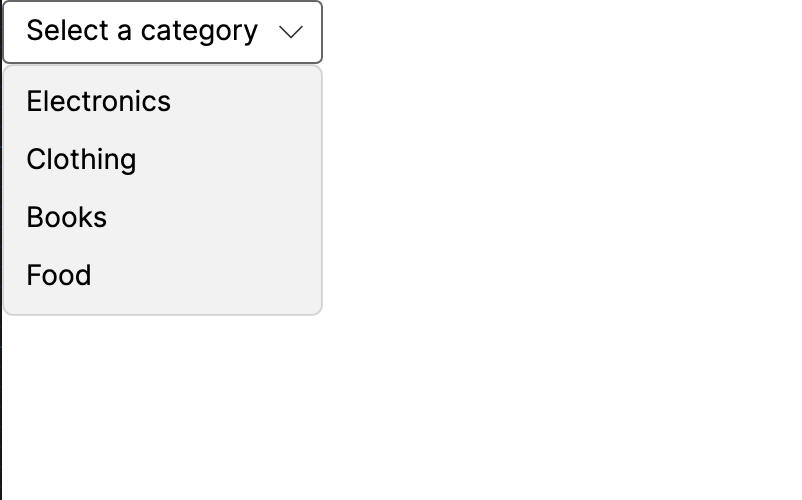
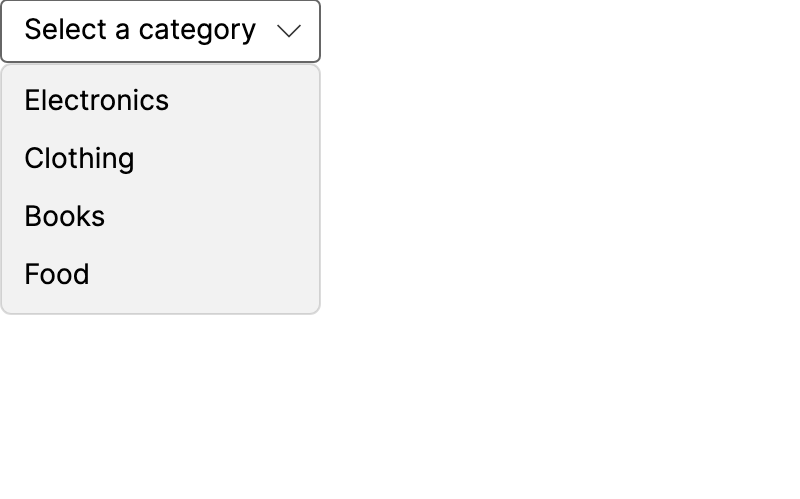
Correct data template sample

Changed region(s): [[0.0, 0.0, 0.4062, 0.6313]]

diff --git a/controls/input/selectors/combobox.md b/controls/input/selectors/combobox.md
@@ -106,23 +106,31 @@ This combo box has a dropdown list that displays text overlaid on colored discs.
 
 This example binds the items in the combo box using a data template. The C# code-behind loads the installed font family names and binds them to the `ItemsSource` property.
 
+<Tabs>
+
+<TabItem value="xml" label="MainWindow.axaml">
+
 ```xml
 <StackPanel Margin="20">
-  <ComboBox x:Name="fontComboBox" SelectedIndex="0"
-            Width="200" MaxDropDownHeight="300"
-            ItemsSource="{Binding FontFamilies}"
-            SelectedValue="{Binding SelectedFont}">
-    <ComboBox.ItemTemplate>
-      <DataTemplate>
-        <TextBlock Text="{Binding Name}" FontFamily="{Binding}" />
-      </DataTemplate>
-    </ComboBox.ItemTemplate>
-  </ComboBox>
+    <ComboBox x:Name="fontComboBox"
+              SelectedIndex="0"
+              Width="200" MaxDropDownHeight="300"
+              ItemsSource="{Binding FontFamilies}"
+              SelectedValue="{Binding SelectedFont}">
+        <ComboBox.ItemTemplate>
+            <DataTemplate x:DataType="FontFamily">
+                <TextBlock Text="{Binding Name}" FontFamily="{Binding}" />
+            </DataTemplate>
+        </ComboBox.ItemTemplate>
+    </ComboBox>
 </StackPanel>
 ```
 
-```csharp title='C#'
-using Avalonia.Controls;
+</TabItem>
+
+<TabItem value="c#" label="MainWindowViewModel.cs">
+
+```csharp
 using Avalonia.Media;
 using Avalonia.Media.Fonts;
 using System.Collections.Generic;
@@ -130,27 +138,33 @@ using System.Linq;
 
 namespace TmpAvaloniaApp;
 
-public partial class MainWindow : Window
+public partial class MainWindowViewModel : ViewModelBase
 {
-    public MainWindow()
+    public MainWindowViewModel()
     {
-        InitializeComponent();
         IFontCollection fontCollection = FontManager.Current.SystemFonts;
         FontFamilies = new List<FontFamily>(fontCollection).OrderBy(x=>x.Name).ToList();
-        DataContext = this;
     }
-
+    
     public FontFamily? SelectedFont { get; set; }
 
     public List<FontFamily> FontFamilies { get; set; }
 }
 ```
 
-<Image light={ComboBoxDataTemplateScreenshot} alt="ComboBox with data template showing font families" position="center" maxWidth={400} cornerRadius="true"/>
+</TabItem>
 
-## Binding to a view model
+<TabItem value="image" label="Preview">
 
-Bind `ItemsSource`, `SelectedItem`, and use an `ItemTemplate`:
+<Image light={ComboBoxDataTemplateScreenshot} alt="ComboBox with data template showing font families." position="center" maxWidth={400} cornerRadius="true"/>
+
+</TabItem>
+
+</Tabs>
+
+### Binding to a view model
+
+Bind `ItemsSource`, `SelectedItem`, and use an `ItemTemplate`.
 
 <Tabs>
 
@@ -184,11 +198,17 @@ public partial class MainWindowViewModel : ViewModelBase
 
 </TabItem>
 
+<TabItem value="image" label="Preview">
+
+<Image light={ComboBoxBindingToViewModel} alt="Open ComboBox showing a list of four items defined in the view model." position="center" maxWidth={400} cornerRadius="true"/>
+
+</TabItem>
+
 </Tabs>
 
-## Editable ComboBox
+## Editable combo box
 
-Set `IsEditable` to `true` to allow you to type text directly into the combo box. As you type, the control searches the items for a match and updates `SelectedItem` accordingly. The `Text` property holds the current text value.
+Set `IsEditable` to `true` to allow text to be typed in the combo box. As you type, the control searches the items for a match and updates `SelectedItem` accordingly. The `Text` property holds the current text value.
 
 ```xml
 <ComboBox IsEditable="True"
@@ -198,9 +218,9 @@ Set `IsEditable` to `true` to allow you to type text directly into the combo box
           PlaceholderText="Type a country..." />
 ```
 
-### `TextSearch.TextBinding`
+### Searching for complex data objects
 
-When items are complex objects, use `TextSearch.TextBinding` to specify which property the editable text should match against:
+When items are complex objects, use `TextSearch.TextBinding` to specify which property the editable text should match against.
 
 ```xml
 <ComboBox IsEditable="True"